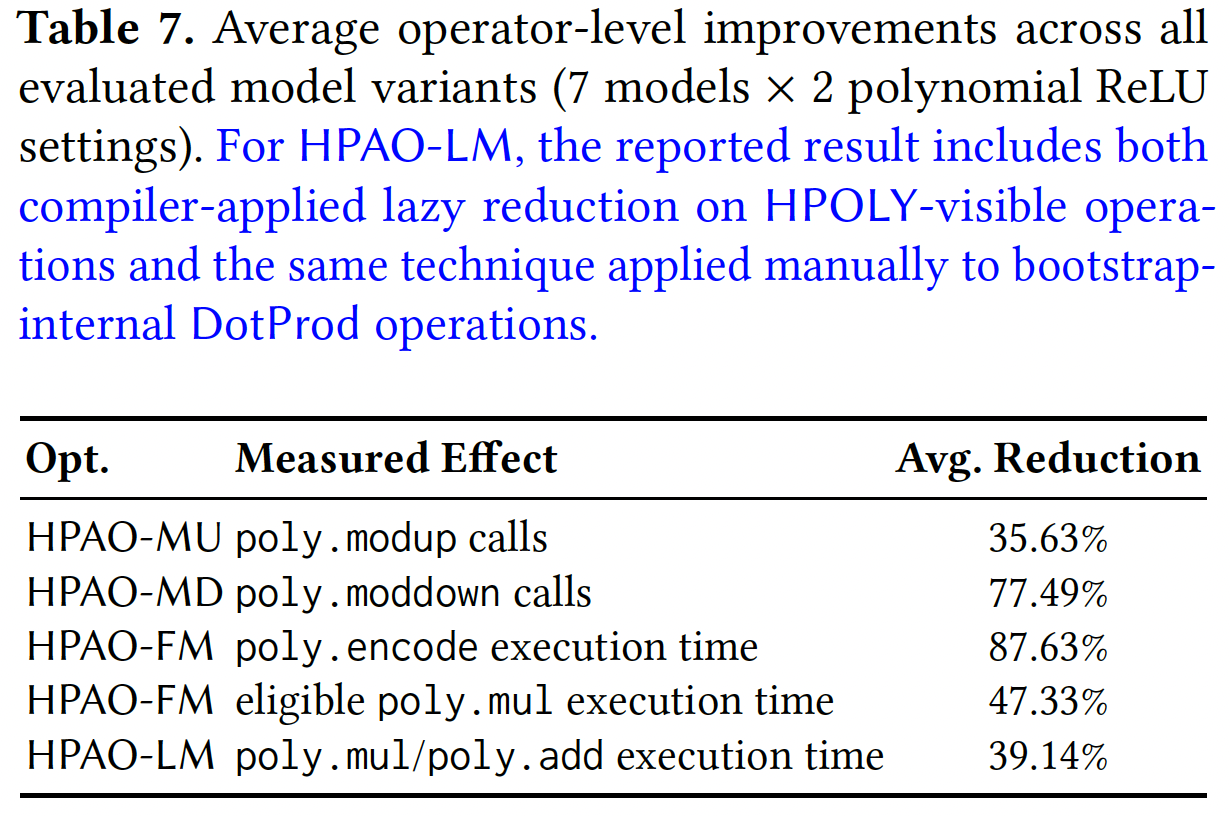
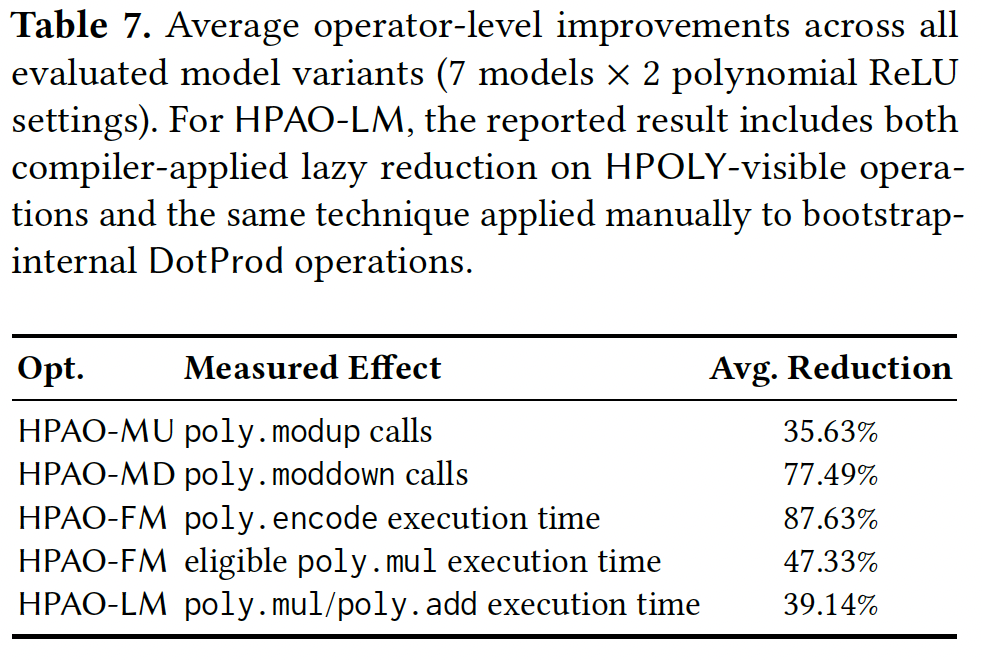
Update scripts
- update hpao.sh to make the output to micro.log/model.log and also the hpao.log
- update table7.png to keep black font
- update disk space from 100 to 300GB

Changed region(s): [[0.0, 0.4848, 0.9776, 1.0], [0.0, 0.0, 0.9776, 0.4242]]

diff --git a/README.md b/README.md
@@ -26,7 +26,7 @@ To support artifact evaluation, we provide detailed instructions, including envi
 **Hardware Setup:**  
 - Intel Xeon Platinum 8369B CPU @ 2.70 GHz  
 - 1 TB memory
-- 100 GB free disk space
+- 300 GB free disk space
 
 **Software Requirements:**  
 - x86_64 Linux (64-bit) with Docker enabled
